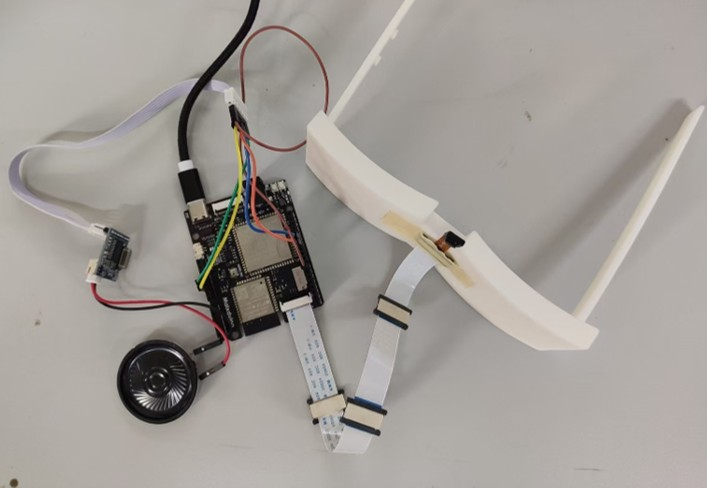
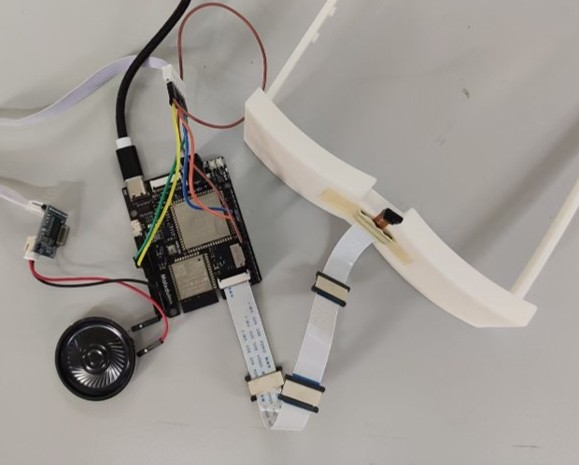
信息更新+照片压缩+字体放大

Changed region(s): [[0.0, 0.0, 1.0, 0.9032], [0.0622, 0.271, 0.1554, 0.3011], [0.0, 0.9634, 0.0311, 1.0]]

diff --git a/_sass/_variables.scss b/_sass/_variables.scss
@@ -14,10 +14,7 @@ $indent-var                 : 0.5em;
 
 /* system typefaces */
 $serif                      : Georgia, Times, serif;
-$sans-serif                 : "Trebuchet MS", Helvetica, sans-serif;
-// $sans-serif                 : Georgia, serif, sans-serif;
-
-// $sans-serif                 : -apple-system, ".SFNSText-Regular", "San Francisco", "Roboto", "Segoe UI", "Helvetica Neue", "Lucida Grande", Arial, sans-serif;
+$sans-serif                 : -apple-system, BlinkMacSystemFont, "Segoe UI", Roboto, "Helvetica Neue", Arial, "Noto Sans SC", sans-serif;
 $monospace                  : Monaco, Consolas, "Lucida Console", monospace;
 
 /* sans serif typefaces */

diff --git a/_sass/_reset.scss b/_sass/_reset.scss
@@ -8,7 +8,7 @@ html {
   /* apply a natural box layout model to all elements */
   box-sizing: border-box;
   background-color: $background-color;
-  font-size: 15px;
+  font-size: #{$doc-font-size}px;
 
   // @include breakpoint($medium) {
   //   font-size: 18px;

diff --git a/_sass/_base.scss b/_sass/_base.scss
@@ -11,6 +11,7 @@ body {
   margin: 0;
   padding: 0;
   padding-bottom: 0em;
+  font-size: #{$doc-font-size}px;
   color: $text-color;
   font-family: $global-font-family;
   line-height: 1.5;

diff --git a/_pages/about.md b/_pages/about.md
@@ -22,15 +22,15 @@ redirect_from:
 <div style="display: flex; flex-wrap: wrap; gap: 1em; justify-content: center; margin: 1.8em 0;">
   <div style="flex: 1; min-width: 160px; text-align: center;">
     <a href="/images/SZU.jpg"><img src="/images/SZU.jpg" style="width: 100%; border-radius: 10px; aspect-ratio: 4/3; object-fit: cover; box-shadow: 0 2px 6px rgba(0,0,0,0.1);"></a>
-    <span style="display: block; font-size: 1.5em; color: #444; margin-top: 6px;">Shenzhen University</span>
+    <span style="display: block; font-size: 1.2em; font-weight: 600; color: #00369f; margin-top: 8px;">Shenzhen University</span>
   </div>
   <div style="flex: 1; min-width: 160px; text-align: center;">
     <a href="/images/SCNU.jpg"><img src="/images/SCNU.jpg" style="width: 100%; border-radius: 10px; aspect-ratio: 4/3; object-fit: cover; box-shadow: 0 2px 6px rgba(0,0,0,0.1);"></a>
-    <span style="display: block; font-size: 1.5em; color: #444; margin-top: 6px;">South China Normal University</span>
+    <span style="display: block; font-size: 1.2em; font-weight: 600; color: #00369f; margin-top: 8px;">South China Normal University</span>
   </div>
   <div style="flex: 1; min-width: 160px; text-align: center;">
     <a href="/images/GBU.jpg"><img src="/images/GBU.jpg" style="width: 100%; border-radius: 10px; aspect-ratio: 4/3; object-fit: cover; box-shadow: 0 2px 6px rgba(0,0,0,0.1);"></a>
-    <span style="display: block; font-size: 1.5em; color: #444; margin-top: 6px;">Great Bay University</span>
+    <span style="display: block; font-size: 1.2em; font-weight: 600; color: #00369f; margin-top: 8px;">Great Bay University</span>
   </div>
 </div>
 
@@ -57,7 +57,9 @@ I received my B.S. degree in Optoelectronic Information Science and Engineering 
 
 Currently, I am an M.S. student in Integrated Circuit Engineering at [**South China Normal University (SCNU)**](https://english.scnu.edu.cn/), supervised by [Prof. Shichen Su (宿世臣)](http://semi.scnu.edu.cn/a/20150917/14.html) starting from 2024.
 
-Since August 2025, I have been a visiting student at Great Bay University, under the guidance of [Prof. Shuming Jiao (焦述铭)](https://scholar.google.com/citations?hl=zh-CN&user=jh7YHO4AAAAJ).
+From Aug. 2025 to Aug. 2026, I was a visiting student at [**Great Bay University**], under the guidance of [Prof. Shuming Jiao (焦述铭)](https://scholar.google.com/citations?hl=zh-CN&user=jh7YHO4AAAAJ).
+
+Currently, I am an optical intern at [**Shenzhen Ledarobot**], working on LiDAR development.
 
 > <i class="fas fa-lightbulb" style="color: #00369f;"></i> My research focuses on **computational imaging, deep optics, optical design, and machine vision**.
 
@@ -69,7 +71,7 @@ Since August 2025, I have been a visiting student at Great Bay University, under
 <div class='paper-box'><div class='paper-box-image'><div><div class="badge">Preprint</div><a href='images/depth_estimation.png'><img src='images/depth_estimation.png' alt="Depth Estimation" width="100%"></a></div></div>
 <div class='paper-box-text' markdown="1">
 
-[Physics-Informed Deep Optics: Chromatic Aberrations for Monocular Depth Estimation](#)
+[Physics-Informed Deep Optics: Chromatic Aberrations for Monocular Depth Estimation](https://opg.optica.org/oe/abstract.cfm?doi=10.1364/OE.608898)
 
 **Yuyue Yang**, et al.
 
@@ -82,7 +84,7 @@ Since August 2025, I have been a visiting student at Great Bay University, under
 <div class='paper-box'><div class='paper-box-image'><div><div class="badge">Optics Comms</div><a href='images/Optics_Communications2025.jpg'><img src='images/Optics_Communications2025.jpg' alt="Metasurfaces" width="100%"></a></div></div>
 <div class='paper-box-text' markdown="1">
 
-[Asymmetric double-layer compact metasurfaces based on phase-progressive diffractive networks](#)
+[Asymmetric double-layer compact metasurfaces based on phase-progressive diffractive networks](https://www.sciencedirect.com/science/article/pii/S0030401825009046)
 
 **Yuyue Yang**, Azad, F., Huang, Z., Shen, M., Su, S.
 
@@ -95,7 +97,7 @@ Since August 2025, I have been a visiting student at Great Bay University, under
 <div class='paper-box'><div class='paper-box-image'><div><div class="badge">Patent</div><a href='images/patent.png'><img src='images/patent.png' alt="Patent" width="100%"></a></div></div>
 <div class='paper-box-text' markdown="1">
 
-[A monocular laser rangefinder telescope, measurement method and rangefinder (CN118642263A)](#)
+[A monocular laser rangefinder telescope, measurement method and rangefinder (CN118642263A)](https://www.qcc.com/zhuanliDetail/7c1c584b5dc3d72aa4ed131fe65ccf72.html)
 
 **Yuyue Yang**, et al.
 
